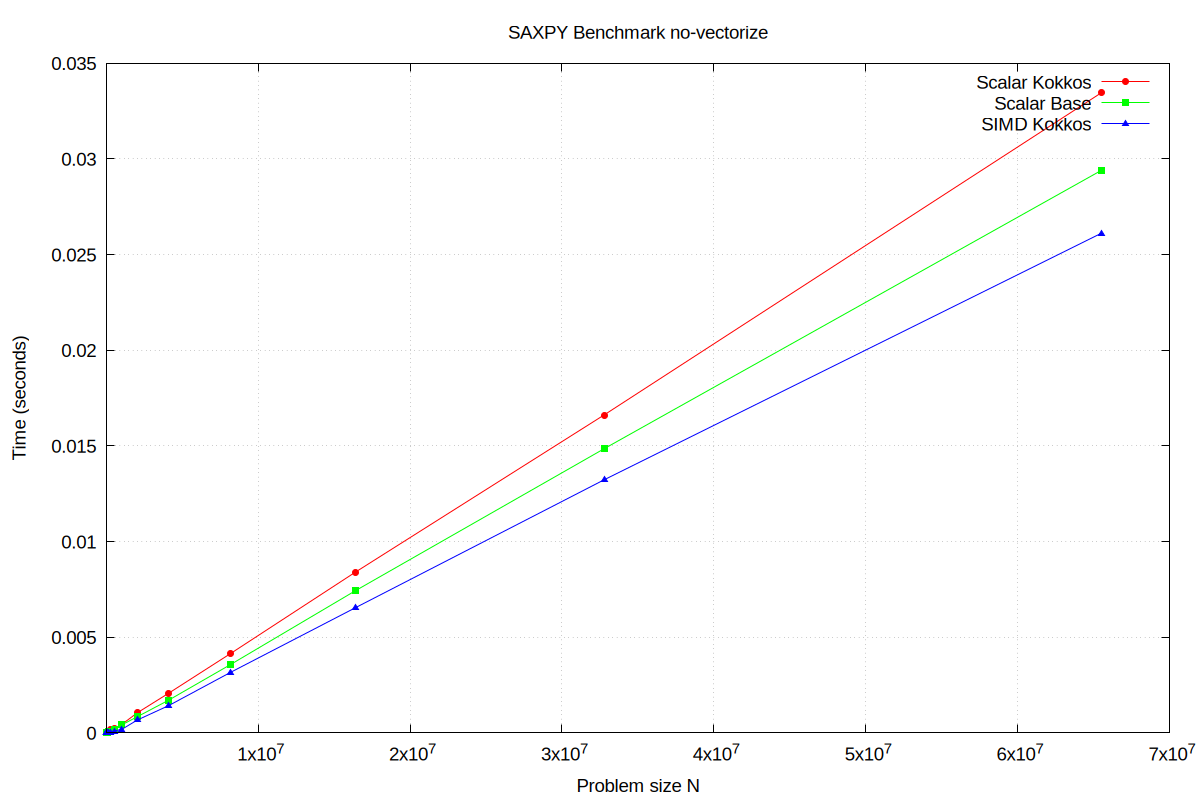
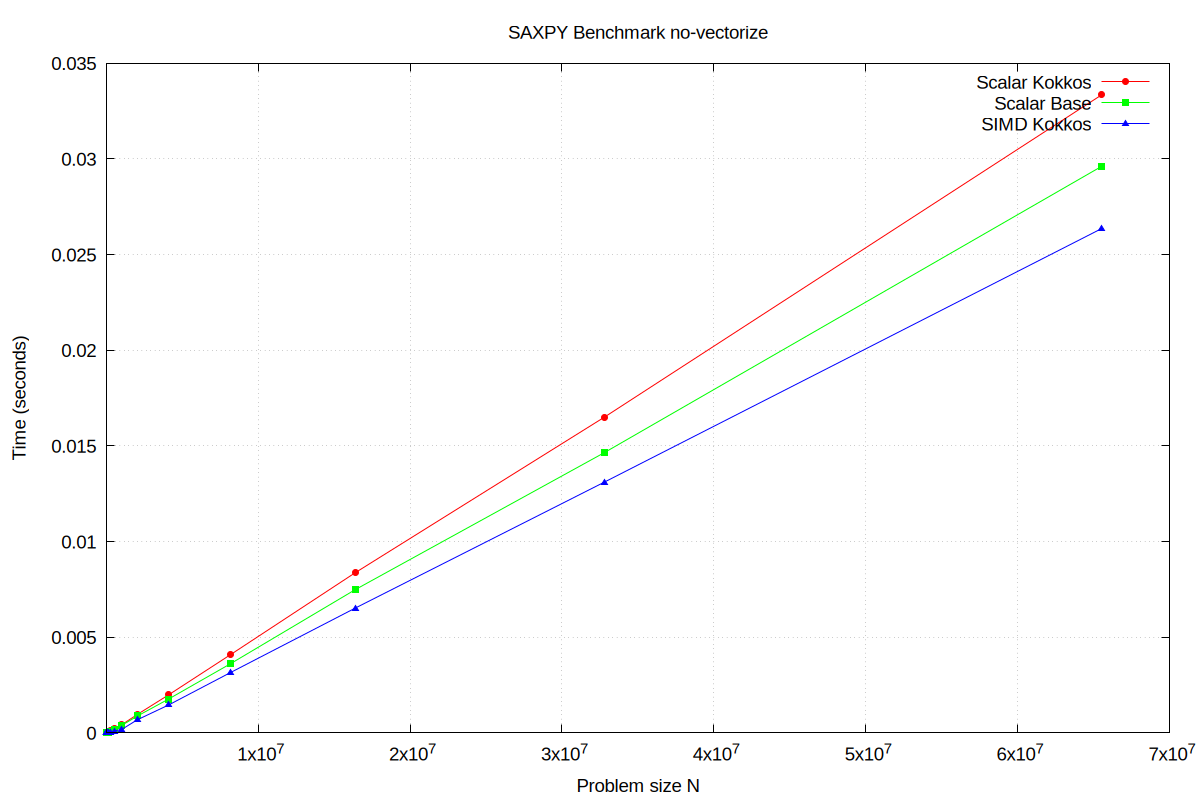
updating readme

diff --git a/README.md b/README.md
@@ -83,25 +83,27 @@ The benchmarks record execution time for varying problem sizes N = (1000 -> 65,5
 
 ###  Non-vectorized `-O3 -march=native -fno-tree-vectorize`
 
+
 | N        | Vector Size (Bytes) | Cache Level | scalar_kokkos | --->   | scalar_base | --->   | simd_kokkos |
 | -------- | ------------------- | ----------- | ------------- | ------ | ----------- | ------ | ----------- |
-| 1000     | 4000                | L1          | 7.83375e-07   | x2.066 | 3.7925e-07  | x1.167 | 3.24875e-07 |
-| 2000     | 8000                | L1          | 1.28013e-06   | x1.669 | 7.67e-07    | x1.867 | 4.1075e-07  |
-| 4000     | 16000               | L1          | 2.43375e-06   | x1.61  | 1.512e-06   | x1.941 | 7.79e-07    |
-| 8000     | 32000               | L1          | 4.35925e-06   | x1.651 | 2.641e-06   | x2.034 | 1.29825e-06 |
-| 16000    | 64000               | L1          | 8.60475e-06   | x1.487 | 5.78812e-06 | x2.57  | 2.25262e-06 |
-| 32000    | 128000              | L2          | 1.56214e-05   | x1.369 | 1.14077e-05 | x2.757 | 4.13738e-06 |
-| 64000    | 256000              | L2          | 3.19179e-05   | x1.176 | 2.71376e-05 | x3.466 | 7.829e-06   |
-| 128000   | 512000              | L2          | 6.18301e-05   | x1.132 | 5.46039e-05 | x3.536 | 1.54422e-05 |
-| 256000   | 1024000             | L2          | 0.000145114   | x1.694 | 8.56502e-05 | x2.778 | 3.08355e-05 |
-| 512000   | 2048000             | L2          | 0.000216636   | x1.152 | 0.000188108 | x2.112 | 8.90504e-05 |
-| 1024000  | 4096000             | L3          | 0.000441651   | x1.06  | 0.000416661 | x2.278 | 0.000182877 |
-| 2048000  | 8192000             | L3          | 0.0010495     | x1.245 | 0.000843264 | x1.259 | 0.000669591 |
-| 4096000  | 16384000            | RAM         | 0.00206447    | x1.213 | 0.00170187  | x1.201 | 0.00141736  |
-| 8192000  | 32768000            | RAM         | 0.00414785    | x1.161 | 0.00357322  | x1.129 | 0.00316385  |
-| 16384000 | 65536000            | RAM         | 0.00838772    | x1.131 | 0.00741844  | x1.136 | 0.0065303   |
-| 32768000 | 131072000           | RAM         | 0.0166074     | x1.119 | 0.0148421   | x1.123 | 0.0132192   |
-| 65536000 | 262144000           | RAM         | 0.0334611     | x1.138 | 0.0294032   | x1.126 | 0.0261171   |
+| 1000     | 4000                | L1          | 5.95e-07      | x1.695 | 3.51e-07    | x1.403 | 2.5025e-07  |
+| 2000     | 8000                | L1          | 8.44625e-07   | x1.29  | 6.54875e-07 | x2.363 | 2.77125e-07 |
+| 4000     | 16000               | L1          | 1.55125e-06   | x1.219 | 1.27288e-06 | x3.142 | 4.05125e-07 |
+| 8000     | 32000               | L1          | 2.96712e-06   | x1.174 | 2.52675e-06 | x2.615 | 9.66375e-07 |
+| 16000    | 64000               | L1          | 5.76938e-06   | x1.138 | 5.07125e-06 | x2.987 | 1.69775e-06 |
+| 32000    | 128000              | L2          | 1.15759e-05   | x1.151 | 1.00571e-05 | x3.168 | 3.17487e-06 |
+| 64000    | 256000              | L2          | 2.25595e-05   | x1.131 | 1.9947e-05  | x3.254 | 6.13e-06    |
+| 128000   | 512000              | L2          | 4.50224e-05   | x1.127 | 3.99349e-05 | x3.32  | 1.20279e-05 |
+| 256000   | 1024000             | L2          | 9.76101e-05   | x1.141 | 8.55405e-05 | x2.713 | 3.15281e-05 |
+| 512000   | 2048000             | L2          | 0.000210479   | x1.106 | 0.000190236 | x2.146 | 8.86278e-05 |
+| 1024000  | 4096000             | L3          | 0.000427874   | x1.091 | 0.000392091 | x2.153 | 0.000182131 |
+| 2048000  | 8192000             | L3          | 0.000961716   | x1.096 | 0.000877118 | x1.284 | 0.000683299 |
+| 4096000  | 16384000            | RAM         | 0.00197998    | x1.123 | 0.0017625   | x1.214 | 0.00145217  |
+| 8192000  | 32768000            | RAM         | 0.00409084    | x1.131 | 0.00361692  | x1.146 | 0.00315533  |
+| 16384000 | 65536000            | RAM         | 0.00836405    | x1.118 | 0.00747864  | x1.148 | 0.00651543  |
+| 32768000 | 131072000           | RAM         | 0.0164829     | x1.127 | 0.0146318   | x1.118 | 0.0130907   |
+| 65536000 | 262144000           | RAM         | 0.0333406     | x1.126 | 0.0296062   | x1.123 | 0.0263533   |
+
 
 ![MISSING IMAGE](./results/no-vectorize_plot.png)  
 
@@ -110,23 +112,22 @@ The benchmarks record execution time for varying problem sizes N = (1000 -> 65,5
 
 | N        | Vector Size (Bytes) | Cache Level | scalar_kokkos | --->   | scalar_base | --->   | simd_kokkos |
 | -------- | ------------------- | ----------- | ------------- | ------ | ----------- | ------ | ----------- |
-| 1000     | 4000                | L1          | 7.845e-07     | x5.758 | 1.3625e-07  | x0.39  | 3.495e-07   |
-| 2000     | 8000                | L1          | 1.14975e-06   | x5.398 | 2.13e-07    | x0.556 | 3.83375e-07 |
-| 4000     | 16000               | L1          | 2.46037e-06   | x4.116 | 5.9775e-07  | x0.779 | 7.67625e-07 |
-| 8000     | 32000               | L1          | 4.48637e-06   | x3.91  | 1.1475e-06  | x0.824 | 1.39263e-06 |
-| 16000    | 64000               | L1          | 7.93613e-06   | x3.763 | 2.109e-06   | x0.931 | 2.26625e-06 |
-| 32000    | 128000              | L2          | 1.56444e-05   | x3.9   | 4.011e-06   | x0.967 | 4.1485e-06  |
-| 64000    | 256000              | L2          | 3.15179e-05   | x4.081 | 7.72225e-06 | x0.983 | 7.85325e-06 |
-| 128000   | 512000              | L2          | 6.20054e-05   | x4.071 | 1.52324e-05 | x0.961 | 1.58452e-05 |
-| 256000   | 1024000             | L2          | 0.000148457   | x5.549 | 2.67544e-05 | x0.93  | 2.87776e-05 |
-| 512000   | 2048000             | L2          | 0.000215326   | x2.446 | 8.80493e-05 | x0.998 | 8.82391e-05 |
-| 1024000  | 4096000             | L3          | 0.000431681   | x2.144 | 0.000201337 | x1.059 | 0.000190103 |
-| 2048000  | 8192000             | L3          | 0.00103628    | x1.551 | 0.000667986 | x0.986 | 0.000677472 |
-| 4096000  | 16384000            | RAM         | 0.00198061    | x1.431 | 0.0013839   | x0.964 | 0.00143629  |
-| 8192000  | 32768000            | RAM         | 0.00411931    | x1.333 | 0.00308983  | x0.983 | 0.00314292  |
-| 16384000 | 65536000            | RAM         | 0.00844726    | x1.259 | 0.00670839  | x1.03  | 0.00651282  |
-| 32768000 | 131072000           | RAM         | 0.0166278     | x1.294 | 0.0128514   | x0.986 | 0.0130389   |
-| 65536000 | 262144000           | RAM         | 0.0332196     | x1.301 | 0.0255407   | x0.98  | 0.0260527   |
-
+| 1000     | 4000                | L1          | 7.7675e-07    | x5.732 | 1.355e-07   | x0.391 | 3.46875e-07 |
+| 2000     | 8000                | L1          | 1.14212e-06   | x5.582 | 2.04625e-07 | x0.542 | 3.7725e-07  |
+| 4000     | 16000               | L1          | 2.166e-06     | x4.028 | 5.3775e-07  | x0.773 | 6.96e-07    |
+| 8000     | 32000               | L1          | 4.06613e-06   | x3.133 | 1.298e-06   | x0.984 | 1.3195e-06  |
+| 16000    | 64000               | L1          | 8.9725e-06    | x3.562 | 2.51875e-06 | x0.918 | 2.7445e-06  |
+| 32000    | 128000              | L2          | 1.79194e-05   | x3.588 | 4.99437e-06 | x0.811 | 6.15763e-06 |
+| 64000    | 256000              | L2          | 3.45264e-05   | x3.595 | 9.60375e-06 | x0.77  | 1.24656e-05 |
+| 128000   | 512000              | L2          | 7.01261e-05   | x4.323 | 1.62219e-05 | x0.833 | 1.94785e-05 |
+| 256000   | 1024000             | L2          | 0.000164492   | x3.056 | 5.38288e-05 | x0.782 | 6.88042e-05 |
+| 512000   | 2048000             | L2          | 0.000212515   | x2.41  | 8.81871e-05 | x0.994 | 8.87037e-05 |
+| 1024000  | 4096000             | L3          | 0.000435449   | x2.389 | 0.000182235 | x0.986 | 0.000184744 |
+| 2048000  | 8192000             | L3          | 0.000966489   | x1.597 | 0.000605346 | x0.975 | 0.000620688 |
+| 4096000  | 16384000            | RAM         | 0.0019907     | x1.404 | 0.00141824  | x0.978 | 0.00144998  |
+| 8192000  | 32768000            | RAM         | 0.00412202    | x1.328 | 0.00310382  | x0.975 | 0.00318322  |
+| 16384000 | 65536000            | RAM         | 0.00828649    | x1.293 | 0.00640749  | x0.982 | 0.0065239   |
+| 32768000 | 131072000           | RAM         | 0.016772      | x1.304 | 0.0128663   | x0.979 | 0.0131478   |
+| 65536000 | 262144000           | RAM         | 0.0330906     | x1.29  | 0.0256478   | x0.98  | 0.0261706   |
 
 ![MISSING IMAGE](./results/vectorize_plot.png)  
